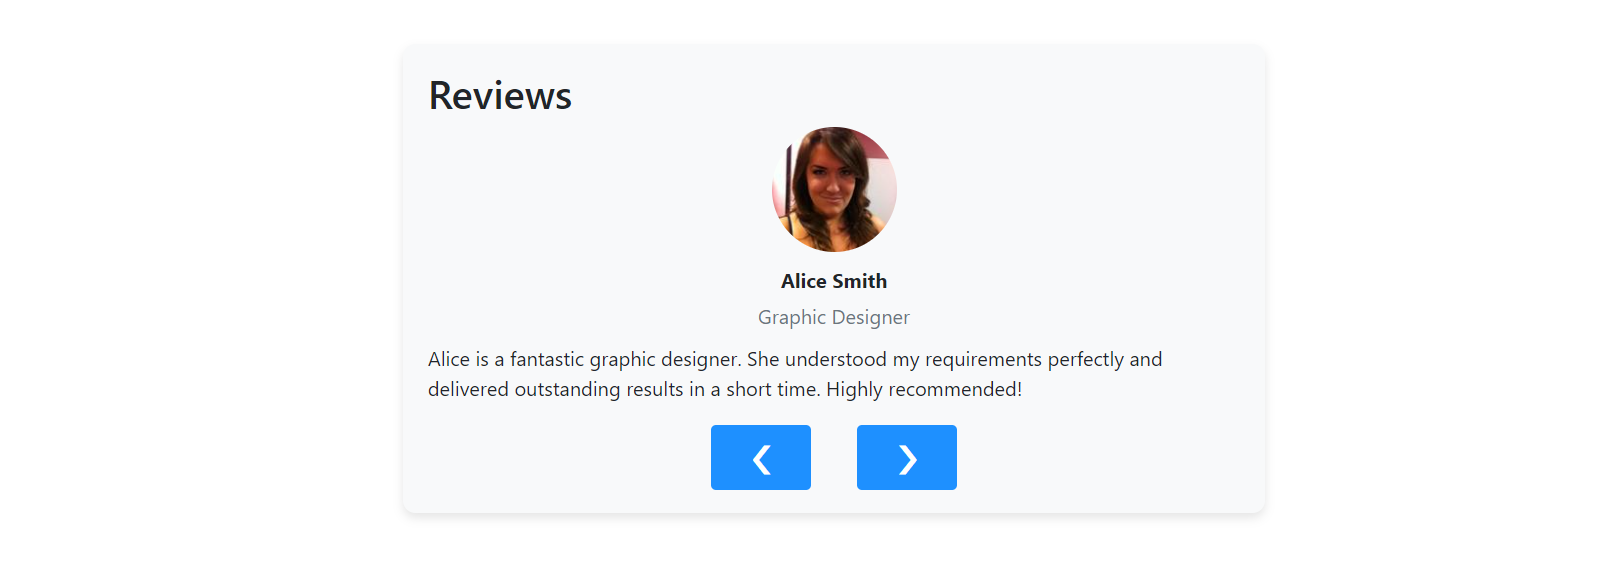
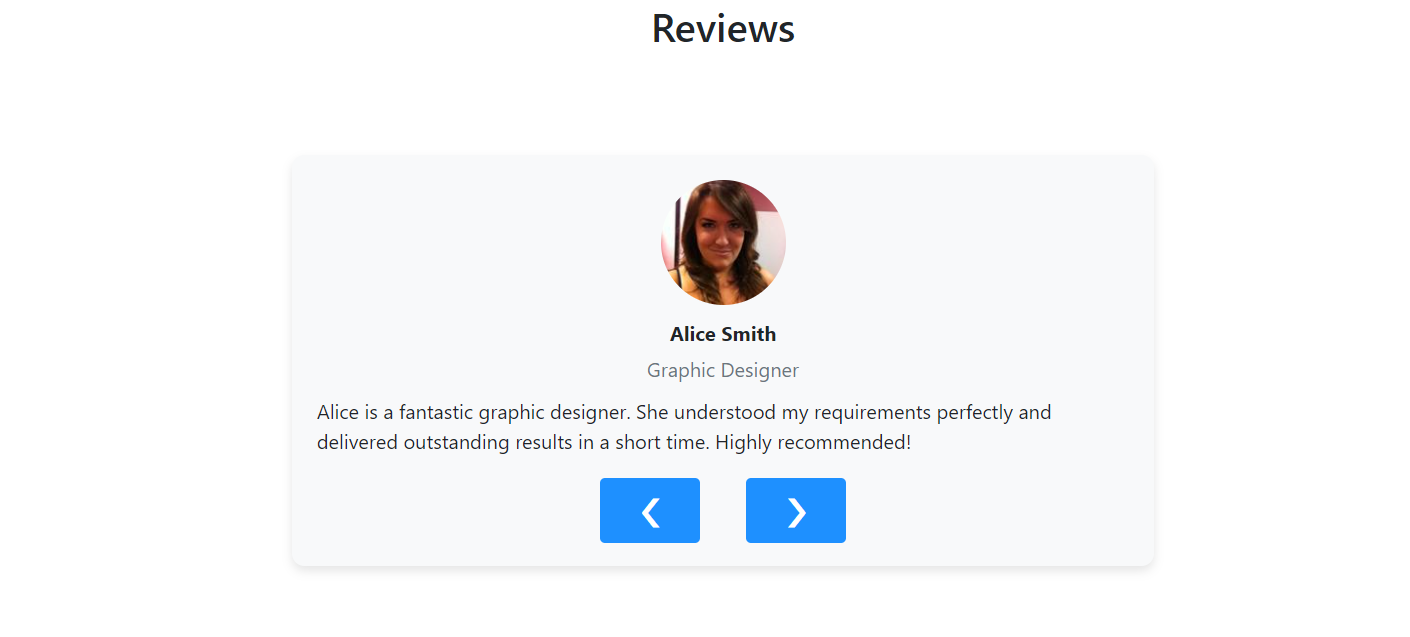
Add images to menu project

Changed region(s): [[0.2184, 0.2158, 0.7489, 0.863], [0.2496, 0.1233, 0.3745, 0.1849], [0.4369, 0.0308, 0.5617, 0.0616]]

diff --git a/Projects/Menu/menu.js b/Projects/Menu/menu.js
@@ -4,7 +4,7 @@ const foods = [
     title: "Eggs Benedict",
     category: "breakfast",
     price: "$12",
-    img: "https://source.unsplash.com/400x300/?eggs",
+    img: "images/eggs-benedict.jpg",
     description:
       "Classic breakfast dish consisting of two halves of an English muffin, each topped with Canadian bacon, poached eggs, and hollandaise sauce.",
   },
@@ -13,7 +13,7 @@ const foods = [
     title: "Avocado Toast",
     category: "breakfast",
     price: "$8",
-    img: "https://source.unsplash.com/400x300/?avocado",
+    img: "images/avocado-toast.jpg",
     description:
       "Sliced avocado served atop toasted bread, seasoned with salt, pepper, and other toppings such as cherry tomatoes or poached eggs.",
   },
@@ -22,7 +22,7 @@ const foods = [
     title: "Grilled Chicken Salad",
     category: "lunch",
     price: "$10",
-    img: "https://source.unsplash.com/400x300/?chicken,salad",
+    img: "images/grilled-chik-salad.jpg",
     description:
       "Healthy salad with grilled chicken breast, mixed greens, cherry tomatoes, cucumber slices, and balsamic vinaigrette dressing.",
   },
@@ -31,7 +31,7 @@ const foods = [
     title: "Margherita Pizza",
     category: "lunch",
     price: "$14",
-    img: "https://source.unsplash.com/400x300/?pizza",
+    img: "images/Margherita-Pizza.jpg",
     description:
       "Traditional Italian pizza topped with tomato sauce, fresh mozzarella cheese, basil leaves, and a drizzle of olive oil.",
   },
@@ -40,7 +40,7 @@ const foods = [
     title: "Chocolate Milkshake",
     category: "shakes",
     price: "$6",
-    img: "https://source.unsplash.com/400x300/?milkshake,chocolate",
+    img: "images/Chocolate-Milkshake.jpg",
     description:
       "Indulgent milkshake made with creamy vanilla ice cream, rich chocolate syrup, and topped with whipped cream and chocolate shavings.",
   },
@@ -49,7 +49,7 @@ const foods = [
     title: "Strawberry Smoothie",
     category: "shakes",
     price: "$5",
-    img: "https://source.unsplash.com/400x300/?smoothie,strawberry",
+    img: "images/Strawberry-Smoothie.jpg",
     description:
       "Refreshing smoothie blended with fresh strawberries, banana, yogurt, and a splash of orange juice.",
   },
@@ -58,7 +58,7 @@ const foods = [
     title: "Grilled Salmon",
     category: "dinner",
     price: "$18",
-    img: "https://source.unsplash.com/400x300/?salmon",
+    img: "images/Grilled-Salmon.jpg",
     description:
       "Healthy and flavorful grilled salmon fillet served with roasted vegetables and a lemon wedge.",
   },
@@ -67,7 +67,7 @@ const foods = [
     title: "Spaghetti Bolognese",
     category: "dinner",
     price: "$16",
-    img: "https://source.unsplash.com/400x300/?spaghetti,bolognese",
+    img: "images/Spaghetti-Bolognese.jpg",
     description:
       "Classic Italian pasta dish featuring spaghetti noodles topped with a rich meat sauce made from ground beef, tomatoes, onions, and herbs.",
   },
@@ -76,7 +76,7 @@ const foods = [
     title: "Pancakes",
     category: "breakfast",
     price: "$9",
-    img: "https://source.unsplash.com/400x300/?pancakes",
+    img: "images/pancakes.jpg",
     description:
       "Fluffy pancakes served with butter and maple syrup, a classic breakfast favorite.",
   },
@@ -85,7 +85,7 @@ const foods = [
     title: "Caesar Salad",
     category: "lunch",
     price: "$12",
-    img: "https://source.unsplash.com/400x300/?salad,caesar",
+    img: "images/Caesar-Salad.jpg",
     description:
       "Fresh romaine lettuce tossed with Caesar dressing, croutons, and Parmesan cheese, a timeless salad option.",
   },

diff --git a/index.html b/index.html
@@ -69,7 +69,7 @@
 </head>
 <body>
     <header>
-        <h1>My JavaScript Projects</h1>
+        <h1>My JavaScript DOM Projects</h1>
     </header>
     <main>
         <div class="grid-container">
@@ -103,18 +103,33 @@
                 </a>
             </div>
             
-            <div class="grid-item">
+            <!-- <div class="grid-item">
                 <a href="Projects/Navbar/navbar.html" target="_blank">
                     <img src="images/navbar.png" alt="Project 3">
-                    <h2>TABS</h2>
-                    <!-- <p>A description of Project 3.</p> -->
+                    <h2>Tabs</h2>
                 </a>
-            </div>
+            </div> -->
 
             <div class="grid-item">
                 <a href="Projects/ImageSlider/imageSlider.html" target="_blank">
                     <img src="images/imgSlider.png" alt="Project 3">
                     <h2>Image Slider</h2>
+                    <!-- <p>A description of Project 3.</p> -->
+                </a>
+            </div>
+
+            <div class="grid-item">
+                <a href="Projects/Modal/modal.html" target="_blank">
+                    <img src="images/modal.png" alt="Project 3">
+                    <h2>Modal</h2>
+                    <!-- <p>A description of Project 3.</p> -->
+                </a>
+            </div>
+
+            <div class="grid-item">
+                <a href="Projects/Menu/menu.html" target="_blank">
+                    <img src="images/menu.png" alt="Project 3">
+                    <h2>Menu</h2>
                     <!-- <p>A description of Project 3.</p> -->
                 </a>
             </div>

diff --git a/Projects/Modal/modal.html b/Projects/Modal/modal.html
@@ -3,13 +3,14 @@
 <head>
     <meta charset="UTF-8">
     <meta name="viewport" content="width=device-width, initial-scale=1.0">
-    <title>Document</title>
+    <title>Modal</title>
     <link rel="stylesheet" href="modal.css">
 </head>
 <body>
     <header class="hero">
         <div class="banner">
             <h1 class="h1">Modal</h1>
+            <p>Lorem ipsum, dolor sit amet consectetur adipisicing elit. Voluptatum!</p>
             <button id="modal-btn" class="btn modal-btn">Open Modal</button>
         </div>
     </header>

diff --git a/Projects/Reviews/reviews.html b/Projects/Reviews/reviews.html
@@ -59,15 +59,20 @@
     transform: scale(1.2); /* Scale up on hover for a nice effect */
 }
 
+h2 {
+  text-align: center;
+  margin: 1rem;
+}
+
     
   </style>
 </head>
 <body>
+  <h2>Reviews</h2>
   <div class="container">
     <div class="row">
       <div class="col-md-8 offset-md-2">
         <div class="review-card">
-          <h2>Reviews</h2>
           <div class="text-center">
             <img id="img" src="https://via.placeholder.com/150" alt="Author" class="review-image">
           </div>

diff --git a/Projects/Menu/menu.html b/Projects/Menu/menu.html
@@ -56,6 +56,7 @@
       display: flex;
       flex-wrap: wrap;
       gap: 20px;
+      padding: 1rem 11rem;
       justify-content: center;
     }
     .menu-item {
@@ -68,6 +69,8 @@
     .menu-item img {
       width: 100%;
       border-radius: 5px 5px 0 0;
+      object-fit: cover;
+      height: 14rem;
     }
     .menu-item-details {
       padding: 10px;

diff --git a/Projects/Sidebar/sidebar.html b/Projects/Sidebar/sidebar.html
@@ -3,7 +3,7 @@
 <head>
     <meta charset="UTF-8">
     <meta name="viewport" content="width=device-width, initial-scale=1.0">
-    <title>Document</title>
+    <title>Sidbar</title>
     <link rel="stylesheet" href="sidebar.css">
     <link href='https://unpkg.com/boxicons@2.1.4/css/boxicons.min.css' rel='stylesheet'>
 </head>

diff --git a/Projects/Modal/modal.css b/Projects/Modal/modal.css
@@ -1,7 +1,7 @@
 body {
     margin: 0;
     padding: 0;
-    background: tomato;
+    background: #e8e8e8;
     font-family: Arial, Helvetica, sans-serif;
 }
 
@@ -25,7 +25,7 @@ body {
 }
 
 .btn {
-    margin-top: 3rem;
+    margin-top: 1rem;
     background-color: dodgerblue;
     color: #fff;
     padding: .7rem 2rem;

diff --git a/Projects/ImageSlider/imageSlider.html b/Projects/ImageSlider/imageSlider.html
@@ -36,7 +36,7 @@
   /* Individual slide */
   .slider-image {
     flex: 0 0 100%;
-    height: auto;
+    height: 22rem;
   }
 
   /* Navigation buttons */
